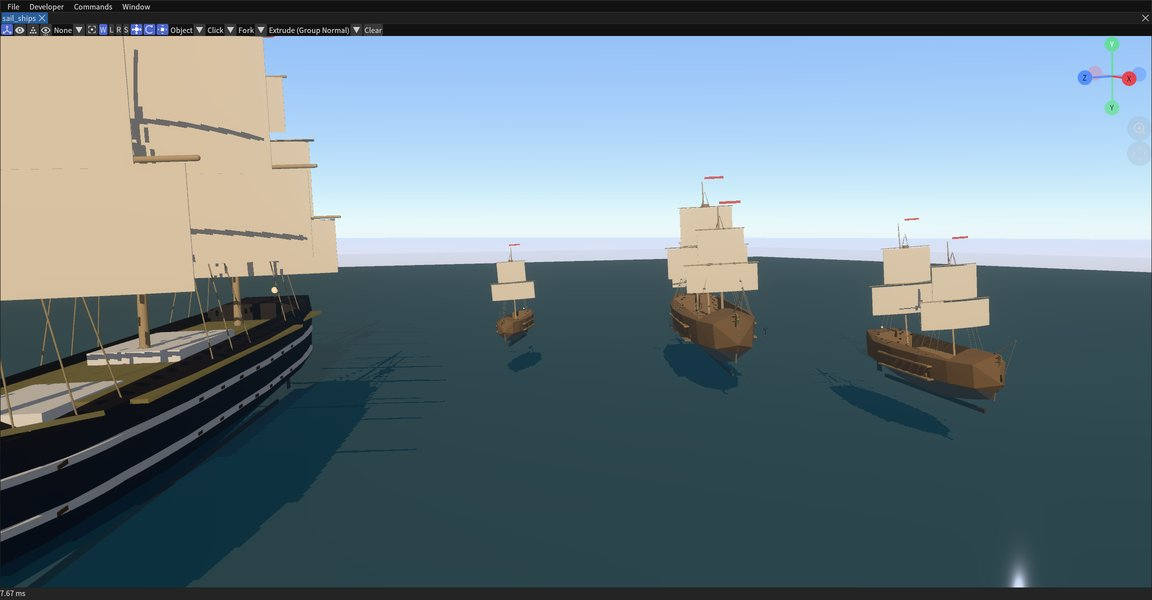
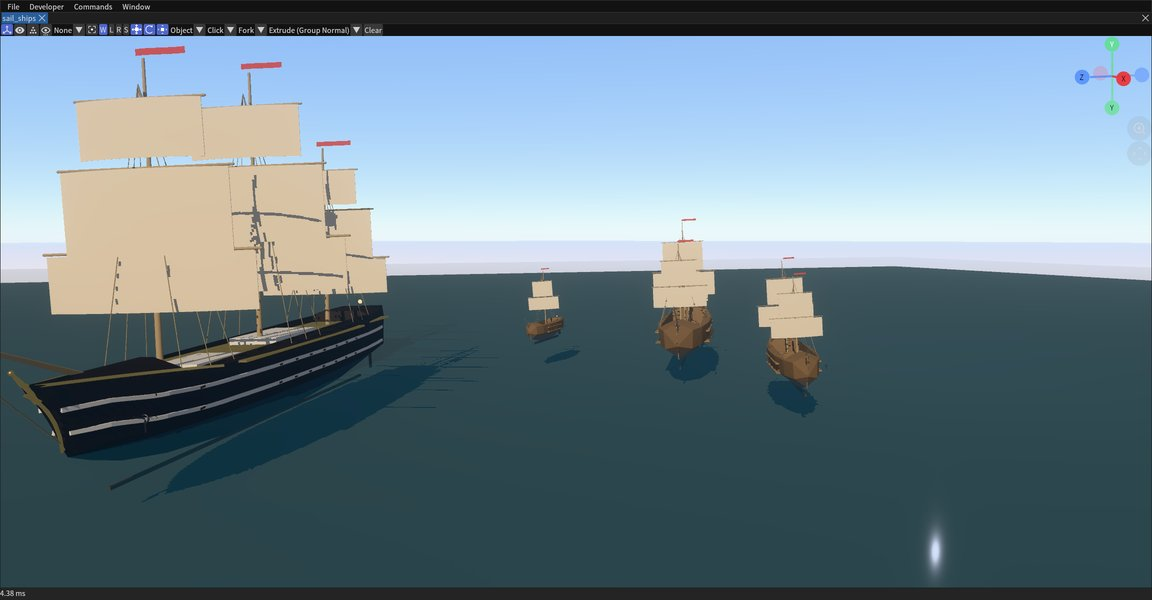
doc/ai_creations: full-fleet bow view for sail ships + doc trims
- 16 sail ships: wider bow-quarter view with ALL four ships fully in
  frame (Vespucci foreground, three escorts bows-on) instead of the
  cropped-Vespucci close view.
- Drop the --pause aside from the YouTube playlist pointer and the
  windowed/headless build bullet from the architecture section.

diff --git a/doc/ai_creations.md b/doc/ai_creations.md
@@ -42,10 +42,6 @@ editor subsystems                  scene graph, brushes, geometry,
   `127.0.0.1:8080` (fallback scan to 8100), runs on a background
   thread, and queues every call to the main thread - so it can drive a
   *running* editor safely, windowed or headless.
-- Creations work against the **windowed Release** build by default and
-  the **headless Vulkan** build (`build_vs2026_vulkan_headless`,
-  emulated swapchain) when no display is available. `capture_screenshot`
-  works in both.
 - Nothing in a creation is hand-edited in the UI: the script is the
   scene's source code, and only the script (plus `common.py` changes) is
   committed. Saved `.glb` outputs and screenshots are artifacts.
@@ -406,5 +402,4 @@ geometry-node sculpture built from a different Conway operator chain
   running editor prints the live list.
 - `scripts/creations/common.py` - the client API described above.
 - [erhe YouTube playlist](https://youtube.com/playlist?list=PLkxdzwaNHiJZVrlre-Y_LBxCzZaOObH9N) -
-  video recordings (the scripts' `--pause` flag exists exactly for
-  starting a screen recording before the scene builds up).
+  video recordings.
